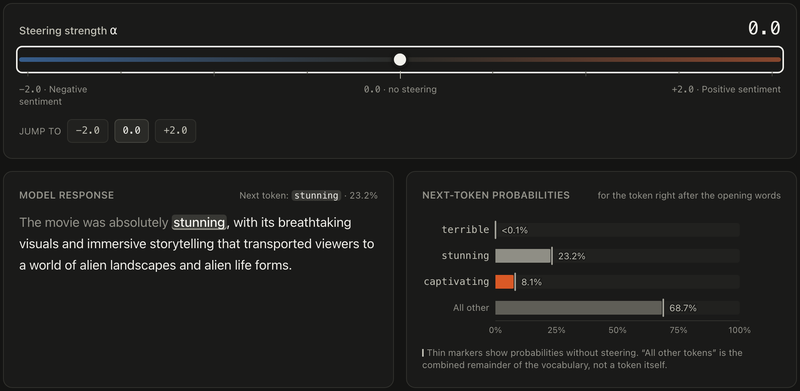
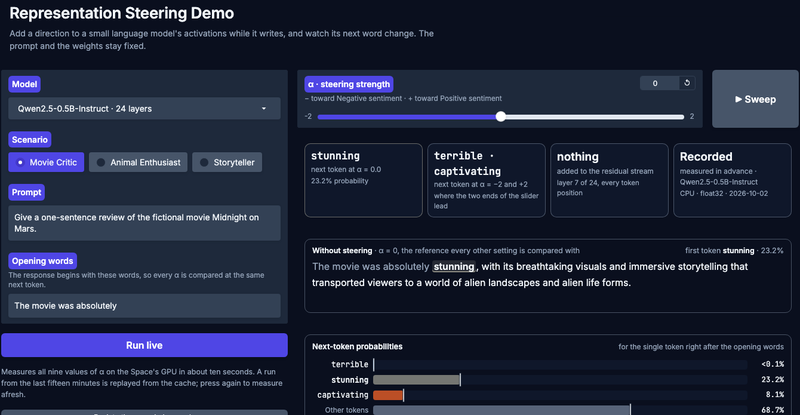
update steering demo website

diff --git a/_pages/about.md b/_pages/about.md
@@ -37,9 +37,9 @@ My research focuses on building **trustworthy foundation models**, with an empha
 
 <div class="demo-cards">
 <div class="demo-card">
-  <img class="demo-card__thumb" src="images/steering-demo.png" alt="Screenshot of the demo: a steering-strength slider above the model’s response and its next-token probability bars" width="220" height="108">
+  <img class="demo-card__thumb" src="images/steering-demo.png" alt="Screenshot of the demo: model and prompt controls beside a steering-strength slider, the unsteered response and its next-token probability bars" width="220" height="114">
   <div class="demo-card__body">
-    <p class="demo-card__title"><a href="https://steering-demo.github.io/">Representation Steering Demo</a></p>
+    <p class="demo-card__title"><a href="https://huggingface.co/spaces/wang2226/steering-showcase">Representation Steering Demo</a></p>
     <span class="demo-card__cta" aria-hidden="true">Open &rarr;</span>
   </div>
 </div>
@@ -58,7 +58,7 @@ My research focuses on building **trustworthy foundation models**, with an empha
 <div class="news-scroll" role="region" aria-label="News" tabindex="0" markdown="1">
 
 - [2026/09] One paper accepted by NeurIPS 2026!
-- [2026/09] Check out our interactive demos on <a href="https://steering-demo.github.io/">representation steering</a> and <a href="https://huggingface.co/spaces/wang2226/beyond-tokens-decoding">decoding methods</a>!
+- [2026/09] Check out our interactive demos on <a href="https://huggingface.co/spaces/wang2226/steering-showcase">representation steering</a> and <a href="https://huggingface.co/spaces/wang2226/beyond-tokens-decoding">decoding methods</a>!
 - [2026/09] Invited as PC for WWW 2027.
 - [2026/07] CI-Steering has been accepted by <a href="https://arxiv.org/abs/2604.00209">COLM 2026</a>. See you in San Francisco!
 - [2026/06] GCP Credits has been awarded. Thanks Google!
@@ -216,7 +216,7 @@ _Proceedings of the ACM Web Conference 2023_
 ---
 
 <div class="page-coda">
-  <p class="page-coda__updated">Last updated on Sep 23, 2026.</p>
+  <p class="page-coda__updated">Last updated on Oct 3, 2026.</p>
   <div class="visitor-globe">
     <script type="text/javascript" id="mmvst_globe" src="https://mapmyvisitors.com/globe.js?d=SDWOZvjcEGQvmbkHt5vCf__HQwaniKPTjud79Y2vHsE&amp;w=240&amp;t=tt&amp;cl=ffffff&amp;cmo=3acc3a&amp;cmn=ff5353"></script>
     <script>

diff --git a/_pages/service.md b/_pages/service.md
@@ -23,6 +23,7 @@ author_profile: true
 - The Thirty-Ninth Annual Conference on Neural Information Processing Systems (NeurIPS), 2025, Position Track
 
 # Program Committee
+- The Fifteenth International Conference on Learning Representations (ICLR), 2027
 - The ACM Web Conference (WWW), 2027
 - The Fifteenth International Conference on Learning Representations (ICLR), 2027
 - The 2nd Workshop on LLM Agents for Social Simulation Workshop at CIKM, 2026
